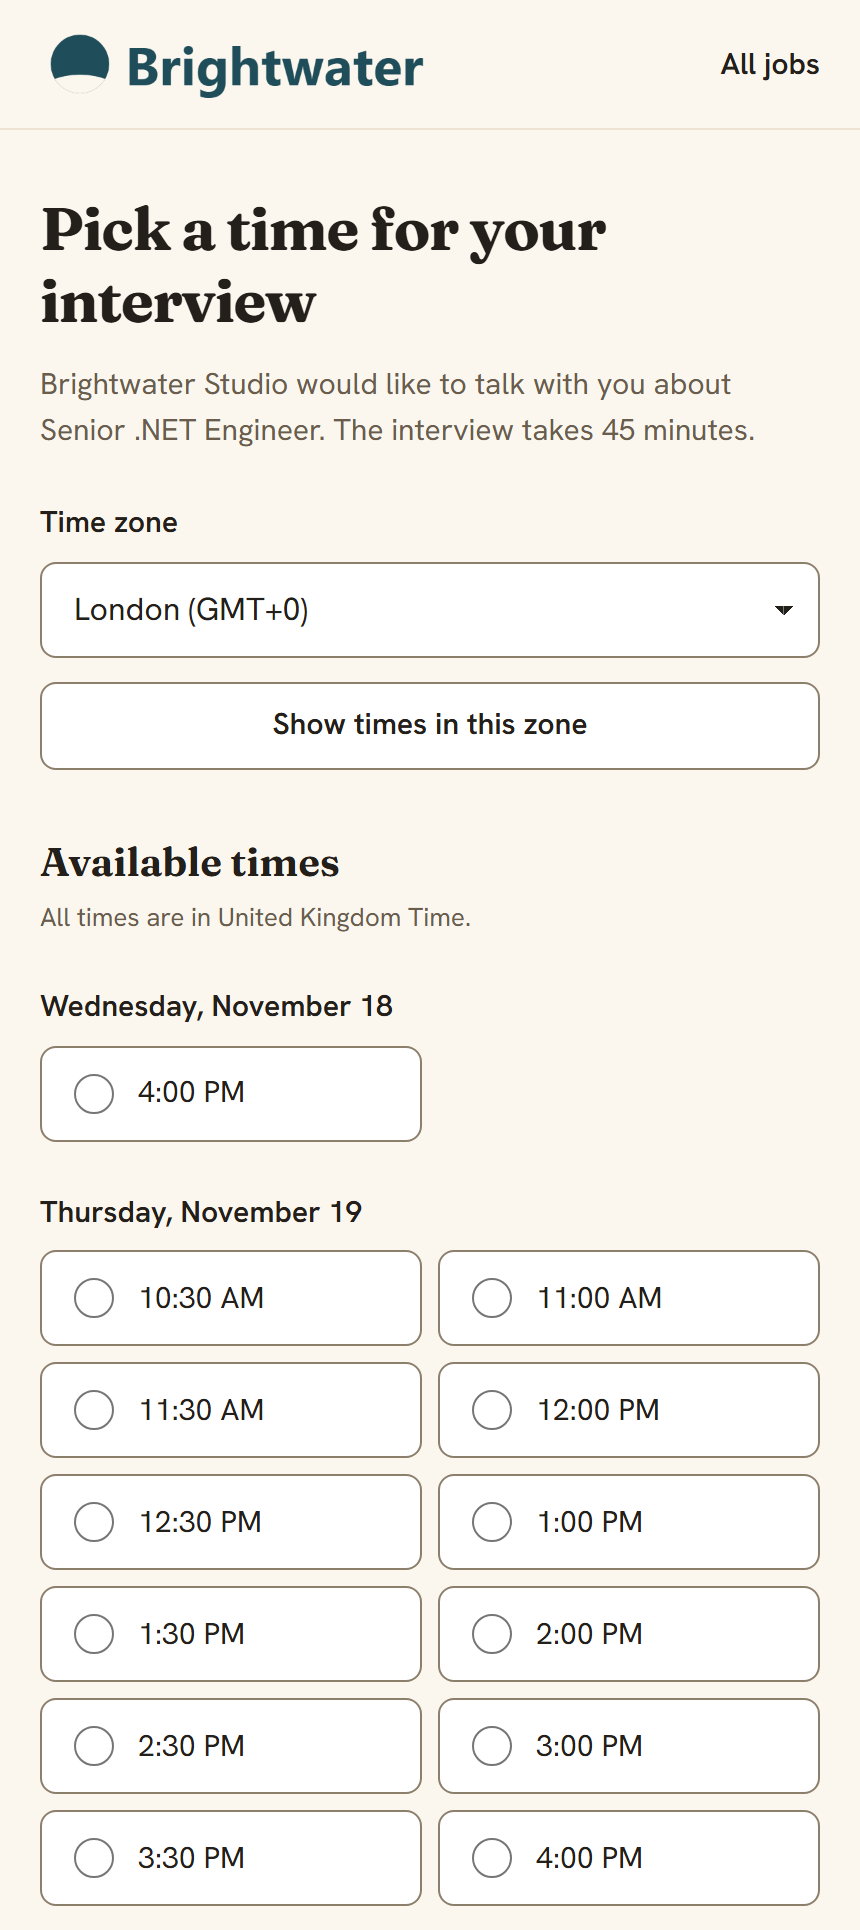
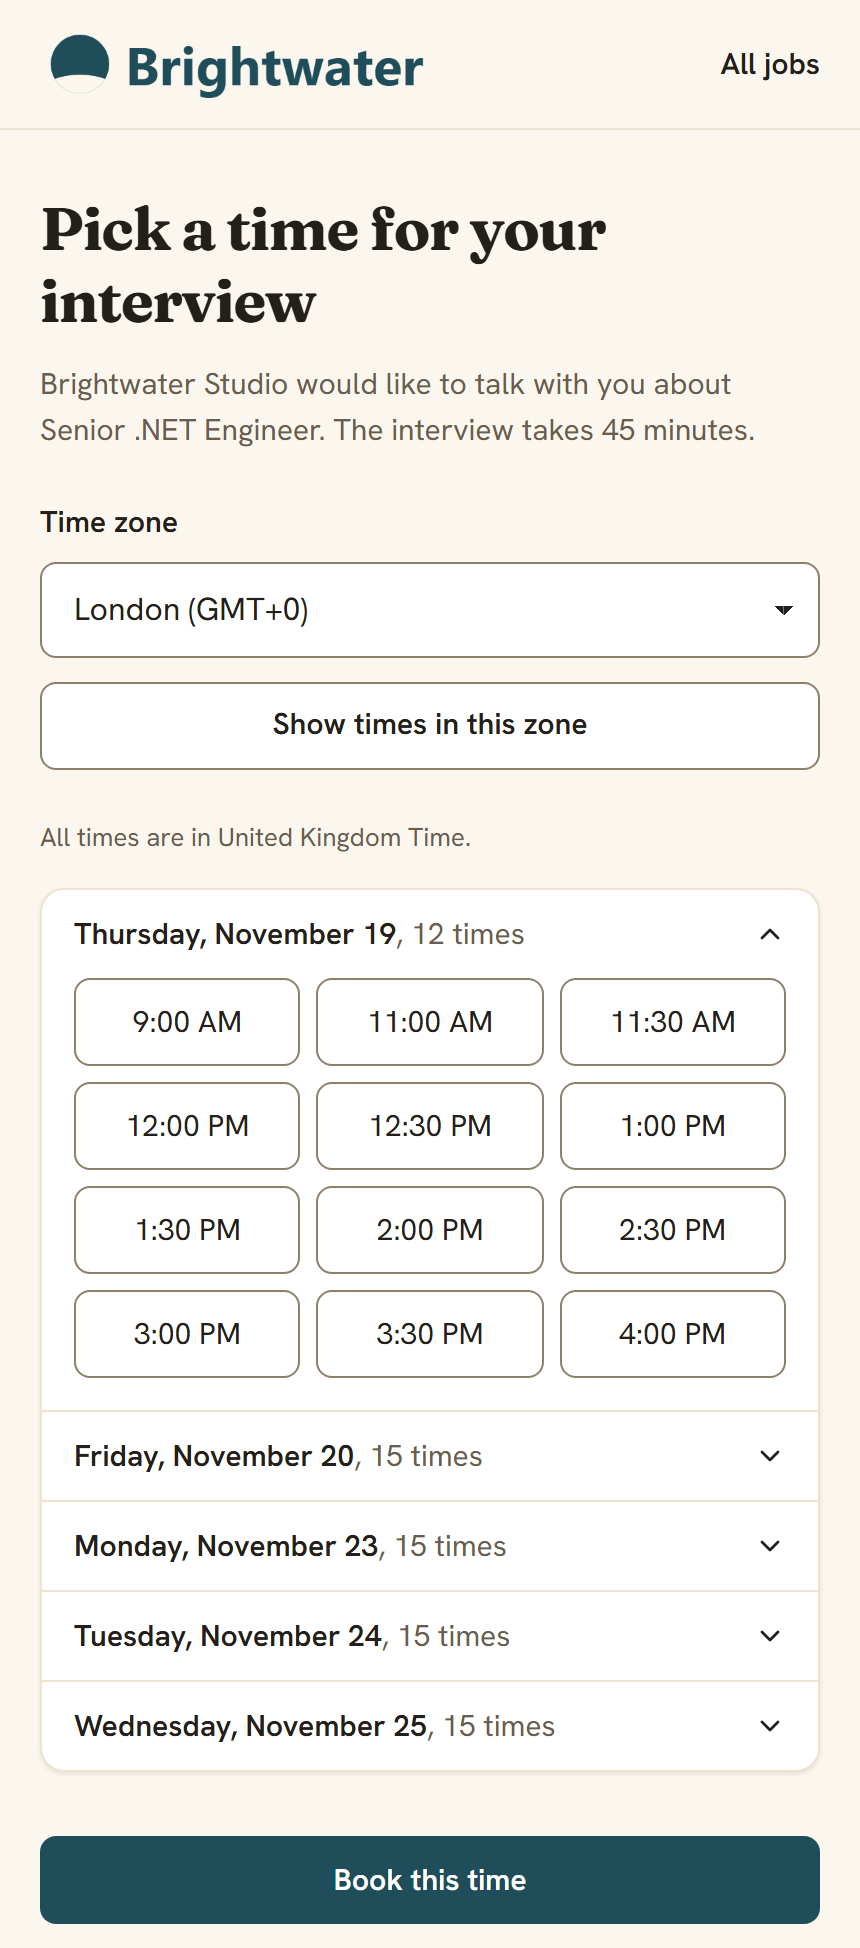
feat(careers): the interview picker shows one day at a time on a phone (#162)
* feat(careers): the interview picker shows one day at a time on a phone

Each day of times is a details element whose summary names the day and counts its
times; only the first day starts open. Times are chips three to a row, still radios
in the one form, so choosing works with JavaScript off. Where CSS anchor positioning
exists, the chosen time is repeated above Book from the checked label. Five days
now make a page under 1400 px tall at 390 px. The interview-booking pictures are
regenerated.

* docs: the interview time chip is 44px, and a closed day hides the chosen-time line

* fix(review): the chosen interview time sits above Book, and Book never fails silently

- The chosen-time line was absolutely positioned inside its chip, which is positioned for the radio that covers it, so
  the Book row was never an acceptable anchor and the line landed on the chip. It is now fixed, which anchors to Book
  and follows the scroll, and spans Book's row.
- The times lose `required`: a radio in a closed day cannot take focus, so the browser refused Book with no message.
  A post with no time already comes back with "Choose a time first."
- The day list card takes the panel edge and shadow-surface (public-style.test.ts failed without it).
- The E2E test checks where the line sits, not only its text, and the no-time step expects the notice.
- Docs: apply-flow, testing and the design system's chip exception follow the page.
[…]

diff --git a/apps/careers/src/styles/global.css b/apps/careers/src/styles/global.css
@@ -49,4 +49,34 @@
     height: 1px;
     overflow: hidden;
   }
+
+  /* A time on the interview page is a chip: the radio covers it, invisible, so the whole chip is the target and the page is
+     three times to a row on a phone. The checked chip shows the choice (background and ring), and focus shows on the chip. */
+  .time-chip:has(:focus-visible) {
+    outline: 2px solid var(--candidate-brand-ui);
+    outline-offset: 2px;
+  }
+
+  /* The time picked, repeated above Book (the interview page). A checked time's label carries it in data-chosen and CSS
+     anchors it to the Book row, so there is no script and no copy of the text in the page. Only where the browser can
+     anchor; elsewhere the checked time itself shows the choice. The empty alternative text keeps it out of the radio's name.
+     The line is fixed, not absolute: an anchor must be laid out before the element it places, and the chip that holds the
+     line is positioned (its radio covers it), so an absolute line would find no anchor and land on the chip. A fixed line's
+     containing block is the viewport, which can anchor to anything, and anchoring follows the page as it scrolls. */
+  @supports (anchor-name: --book) {
+    .times-form .book-row {
+      anchor-name: --book;
+      @apply mt-4;
+    }
+
+    .times-form .choice:has(:checked)::after {
+      content: attr(data-chosen) / "";
+      position: fixed;
+      position-anchor: --book;
+      bottom: anchor(top);
+      left: anchor(left);
+      right: anchor(right);
+      @apply text-candidate-body font-semibold text-candidate-foreground;
+    }
+  }
 }

diff --git a/tests/ScreenHire.E2E/InterviewBookingTests.cs b/tests/ScreenHire.E2E/InterviewBookingTests.cs
@@ -32,9 +32,12 @@ public sealed partial class InterviewBookingTests(E2EFixture fixture) : BrowserT
         await Expect(Page.Locator("#tz")).ToHaveValueAsync("UTC");
         await ExpectNoAccessibilityViolationsAsync();
 
-        // Pressing Book without a time is refused by the browser; nothing is posted.
+        // Pressing Book without a time books nothing and asks for one. The times carry no `required`: a closed day's radio
+        // cannot take the browser's focus, so the browser would refuse the post without a word.
         await Page.GetByRole(AriaRole.Button, new() { Name = "Book this time" }).ClickAsync();
         await Expect(Page.GetByRole(AriaRole.Heading, new() { Level = 1 })).ToHaveTextAsync("Pick a time for your interview");
+        await Expect(Page.Locator("main")).ToContainTextAsync("Choose a time first.");
+        (await scene.Interview(Ct)).GetProperty("status").GetString().Should().Be("Open");
 
         // The zone is a plain GET form: the times come back written in the chosen zone, on the half hour for Kolkata.
         await Page.Locator("#tz").SelectOptionAsync("Asia/Kolkata");
@@ -42,13 +45,13 @@ public sealed partial class InterviewBookingTests(E2EFixture fixture) : BrowserT
         await Expect(Page).ToHaveURLAsync(new Regex("tz=Asia%2FKolkata"));
         await Expect(Page.Locator("#tz")).ToHaveValueAsync("Asia/Kolkata");
         await Expect(Page.GetByText("All times are in India Standard Time.")).ToBeVisibleAsync();
-        var morning = Page.GetByLabel("2:30 PM", new() { Exact = true }).First; // 09:00 UTC, the first hour of the working day
+        var morning = await OpenDayWithAsync("2:30 PM"); // 09:00 UTC, the first hour of the working day
         await Expect(morning).ToBeVisibleAsync();
         var firstDay = await DayOfAsync(morning);
         await ExpectNoAccessibilityViolationsAsync();
         await ShotsAsync(scene.Link + "?tz=Asia%2FKolkata", "interview-open");
 
-        morning = Page.GetByLabel("2:30 PM", new() { Exact = true }).First; // the shots reopened the page in a new browser context
+        morning = await OpenDayWithAsync("2:30 PM"); // the shots reopened the page in a new browser context
         await morning.CheckAsync();
         await Page.GetByRole(AriaRole.Button, new() { Name = "Book this time" }).ClickAsync();
 
@@ -74,8 +77,9 @@ public sealed partial class InterviewBookingTests(E2EFixture fixture) : BrowserT
         Page.Url.Should().Contain("change=1").And.Contain("tz=Asia%2FKolkata");
         await Expect(Page.Locator("main")).ToContainTextAsync("Choose a new time and we will move it.");
         await ExpectNoAccessibilityViolationsAsync();
-        var last = Page.Locator("fieldset").Last;
-        var lastDay = (await last.Locator("legend").InnerTextAsync()).Trim();
+        var last = Page.Locator("details").Last;
+        await last.Locator("summary").ClickAsync(); // only the first day starts open
+        var lastDay = (await last.Locator("legend").TextContentAsync())!.Trim();
         var lastTime = last.GetByRole(AriaRole.Radio).Last;
         var lastRange = (await lastTime.Locator("xpath=ancestor::label[1]").InnerTextAsync()).Trim();
         await lastTime.CheckAsync();
@@ -102,6 +106,56 @@ public sealed partial class InterviewBookingTests(E2EFixture fixture) : BrowserT
 
         // The recruiter sees the cancellation too.
         (await scene.Interview(Ct)).GetProperty("status").GetString().Should().Be("Cancelled");
+    }
+
+    [Fact]
+    public async Task A_candidate_on_a_phone_sees_one_day_of_times_at_a_time_and_books_a_time_on_the_third_day()
+    {
+        using var scene = await SceneAsync();
+        await WithoutJavaScriptAsync();
+        await Page.SetViewportSizeAsync(390, 844);
+        await Page.GotoAsync(scene.Link);
+        await Expect(Page.GetByRole(AriaRole.Heading, new() { Level = 1 })).ToHaveTextAsync("Pick a time for your interview");
+
+        // Five days of times are five lines, and only the first day is open: the page stays short and Book is in reach.
+        var days = Page.Locator("main form details");
+        await Expect(days).ToHaveCountAsync(5);
+        await Expect(days.First).ToHaveAttributeAsync("open", "");
+        await Expect(Page.Locator("main form details[open]")).ToHaveCountAsync(1);
+        await Expect(days.Nth(2).Locator("summary")).ToHaveTextAsync(new Regex(@",\s*\d+ times?$"));
+        (await Page.Locator("script:not([type='application/ld+json'])").CountAsync()).Should().Be(0, "the page ships no JavaScript");
+        await ExpectNoAccessibilityViolationsAsync();
+
+        await WithJavaScriptAsync(); // only to measure: the page has no script of its own
+        await Page.SetViewportSizeAsync(390, 844);
+        await Page.GotoAsync(scene.Link);
+        var height = await Page.EvaluateAsync<double>("() => document.documentElement.scrollHeight");
+        height.Should().BeLessThan(1400, "five days of times fit a phone page about one and a half screens tall");
+
+        // A time on the third day: open it, choose it, and the choice is repeated above Book.
+        var third = Page.Locator("main form details").Nth(2);
+        await third.Locator("summary").ClickAsync();
+        var dayHeading = (await third.Locator("legend").TextContentAsync())!.Trim();
+        await third.GetByRole(AriaRole.Radio).First.CheckAsync();
+        // A pseudo-element has no box to ask for, and its computed insets do not follow the scroll, so the test asks the page
+        // what is drawn just above Book's left edge: a hit on a pseudo-element answers with the element that owns it.
+        var line = await third.Locator("label.choice").First.EvaluateAsync<JsonElement>("""
+            async e => {
+              const book = document.querySelector('.book-row');
+              book.scrollIntoView({ block: 'center' });
+              await new Promise((done) => requestAnimationFrame(() => requestAnimationFrame(done)));
+              const box = book.getBoundingClientRect();
+              return { content: getComputedStyle(e, '::after').content, above: document.elementFromPoint(box.left + 4, box.top - 6) === e };
+            }
+            """);
+        line.GetProperty("content").GetString().Should().Contain($"{dayHeading} at ", "the chosen time is repeated");
+        line.GetProperty("above").GetBoolean().Should().BeTrue("the chosen time sits right above Book");
+        await Page.GetByRole(AriaRole.Button, new() { Name = "Book this time" }).ClickAsync();
+
+        await Expect(Page.GetByRole(AriaRole.Heading, new() { Level = 1 })).ToHaveTextAsync("Your interview is booked");
+        await Expect(Page.GetByRole(AriaRole.Region, new() { Name = "Your time" })).ToContainTextAsync(dayHeading);
+        await ExpectNoAccessibilityViolationsAsync();
+        (await scene.Interview(Ct)).GetProperty("status").GetString().Should().Be("Booked");
     }
 
     [Fact]
@@ -137,7 +191,7 @@ public sealed partial class InterviewBookingTests(E2EFixture fixture) : BrowserT
         await Expect(Page.GetByRole(AriaRole.Heading, new() { Level = 1 })).ToHaveTextAsync("Pick a new time");
         await Expect(Page.GetByRole(AriaRole.Link, new() { Name = "Keep my current time" }).First).ToBeVisibleAsync();
         await ExpectNoAccessibilityViolationsAsync();
-        var firstDay = (await Page.Locator("fieldset legend").First.InnerTextAsync()).Trim();
+        var firstDay = (await Page.Locator("fieldset legend").First.TextContentAsync())!.Trim();
         await Page.GetByRole(AriaRole.Radio).First.CheckAsync();
         await Page.GetByRole(AriaRole.Button, new() { Name = "Move to this time" }).ClickAsync();
 
@@ -213,7 +267,21 @@ public sealed partial class InterviewBookingTests(E2EFixture fixture) : BrowserT
     }
 
     private static async Task<string> DayOfAsync(ILocator radioLabelled) =>
-        (await radioLabelled.Locator("xpath=ancestor::fieldset[1]/legend").InnerTextAsync()).Trim();
+        (await radioLabelled.Locator("xpath=ancestor::fieldset[1]/legend").TextContentAsync())!.Trim();
+
+    // The radio for a time on the first day that offers it, with that day open: only the first day starts open, and a closed
+    // day's times cannot be seen or chosen.
+    private async Task<ILocator> OpenDayWithAsync(string time)
+    {
+        var radio = Page.GetByLabel(time, new() { Exact = true });
+        var day = Page.Locator("details", new() { Has = radio }).First;
+        if (await day.GetAttributeAsync("open") is null)
+        {
+            await day.Locator("summary").ClickAsync();
+        }
+
+        return day.GetByLabel(time, new() { Exact = true });
+    }
 
     private async Task<MailpitMessage> WaitForEmailAsync(string address, string subject)
     {

diff --git a/tests/ScreenHire.E2E/MarketingScreenshotsTests.cs b/tests/ScreenHire.E2E/MarketingScreenshotsTests.cs
@@ -107,6 +107,7 @@ public sealed partial class MarketingScreenshotsTests(MarketingDemoFixture fixtu
 
         // Where the phone pictures stop: between elements, never through the middle of one.
         static ILocator Stage4(IPage page) => page.GetByRole(AriaRole.List, new() { Name = "Stages in order" }).Locator("> li").Nth(3);
+        static ILocator Book(IPage page) => page.GetByRole(AriaRole.Button, new() { Name = "Book this time" });
         static ILocator Entry(IPage page, string text) => page.Locator("main ol[aria-label] > li").Filter(new() { HasText = text });
 
         var screens = new List<Screen>
@@ -141,11 +142,11 @@ public sealed partial class MarketingScreenshotsTests(MarketingDemoFixture fixtu
                 WideTo: page => PanelTitled(page, "Candidate journey"), WideMargin: 4,
                 Phone: new(Height: 1800, Margin: 10, From: page => PanelTitled(page, "Candidate journey"), To: Stage4)),
 
-            // 7. The candidate's interview booking page, before they pick a time. Both pictures end after the second day of times;
-            // the window is tall enough for two whole days when the run starts early and today has times all day.
+            // 7. The candidate's interview booking page, before they pick a time: the first day open, the other days one line each.
+            // Both pictures end at the Book button.
             new("interview-booking", bookingLink, "Pick a time for your interview", _ => Task.CompletedTask, Public: true, Height: 1150,
-                WideTo: page => page.Locator("main fieldset").Nth(1), WideMargin: 12,
-                Phone: new(Height: 2400, Margin: 12, To: page => page.Locator("main fieldset").Nth(1))),
+                WideTo: Book, WideMargin: 12,
+                Phone: new(Height: 1400, Margin: 12, To: Book)),
 
             // 8. Slack, connected, in Settings, whose menu lists each integration beside the other settings.
             new("integrations", DashboardUrl("/settings/slack"), "Slack",

diff --git a/docs/architecture/interview-scheduling.md b/docs/architecture/interview-scheduling.md
@@ -428,7 +428,9 @@ offers instants and the zone; it never sends formatted text. Booking, moving and
 redirect back to the same address with an outcome word (`booked`, `rescheduled`, `cancelled`, `slot-taken`, `too-late`).
 A conflict maps to its notice by the problem's `type`. When the team has offered new times the page says so, keeps the booked time in view and leads with Pick a new time, which
 opens the picker on the new days. The usual notice does not apply while the offer is pending. The page shows one screen of five days that have times and links to the
-next, shows no meeting link of its own (the calendar invitation has it), names no interviewer, and says nothing about
+next. Each day is a `details` element whose summary names the day and counts its times, and only the first day starts open, so five days are five lines on a phone and the page stays under 1400 px tall.
+The times stay radios in the one form, so a closed day still posts. They are not `required`, because the browser cannot focus a radio in a closed day and would refuse Book without a word; a post with no time comes back with "Choose a time first." Where the browser supports CSS anchor positioning, the chosen time ("Tuesday, November 18 at 10:30 AM") is repeated above Book from the checked label's `data-chosen`; elsewhere the checked time shows the choice, and a day closed again after a choice hides the line with it. The page
+shows no meeting link of its own (the calendar invitation has it), names no interviewer, and says nothing about
 verification. Cancelling asks first: a `details` element opens a line that says what happens and a Yes, cancel it button. The browser test (`InterviewBookingTests`) runs the whole journey with JavaScript off, axe clean, and checks
 the page at 390 and 1280 pixels wide for sideways scrolling and touch targets.
 

diff --git a/docs/design/design-system.md b/docs/design/design-system.md
@@ -590,7 +590,7 @@ The careers and marketing pages follow W1, W2, W3, W7 and A10 as well, with thes
   class but those three and `rounded-none`; a step marker on a candidate's own page is square, with no radius class). A card that is not a `Panel` still takes `rounded-panel` and `shadow-surface`. Margins, padding and gaps sit on the 4px grid
   (4, 8, 12, 16, 20, 24, 32, 40, 48, which is `1`, `2`, `3`, `4`, `5`, `6`, `8`, `10` and `12`): no half steps, no `7`,
   `9` or `11`. A button is 44px high (`min-h-11` on careers pages, `h-11` on marketing pages), and a careers input or
-  choice is 48px (`min-h-12`).
+  choice is 48px (`min-h-12`). A time on the interview page is the one exception: a chip 44px high (`min-h-11`), because its radio is hidden under it and the whole chip is the target.
 - A section is a panel (S3, section 6): the card colour, a 1px edge, `rounded-panel` and `shadow-surface`, with its
   title inside a 56px header. Careers pages draw one with `Panel.astro` (`title` and `id`, or only a screen-reader
   `label`, an `action` slot for a Change button, a `footer` slot) in the neutral candidate tokens, so employer colours

diff --git a/docs/architecture/apply-flow.md b/docs/architecture/apply-flow.md
@@ -345,7 +345,7 @@ whole life. The page asks the API for the interview (`GET .../interviews/{token}
 - **Open.** The heading names the job and the length, then a time zone `<select>` in a plain GET form (the interview's own
   zone first, then a short list of common ones and the zone being shown; "Show times in this zone" reloads with `?tz=`),
   then the offered times. The careers server writes every time with `Intl.DateTimeFormat` in that zone, so no script is
-  needed: a fieldset per local day, a radio per start time ("10:00 AM"), and "Book this time", posted to the
+  needed: a `details` per local day (the first open) holding a fieldset, a radio per start time ("10:00 AM"), and "Book this time", posted to the
   `interviewBook` action. One screen shows at most five days that have times; "Show later times" and "Back to the first
   times" are plain links (`?from=` a local day), so a 90-day window never becomes a thousand radios. No times, or a
   calendar that cannot be read, gets a calm notice that says to try again later or reply to the email.

diff --git a/docs/process/testing.md b/docs/process/testing.md
@@ -351,7 +351,7 @@ picture (`name.png`) and a picture of the same screen laid out at phone width (`
   with automations the test adds, because the engineer job's queues an answer for rejection review.
 - **Pictures end between elements.** Where the window as it opens would cut a screen, its picture runs from one element
   to another in a tall window: the pipeline's phone picture shows one stage and its cards, the activity runs from the reply to the first note, the
-  candidates list ends after the last row the window shows whole, the booking page after its second day of times, and the
+  candidates list ends after the last row the window shows whole, the booking page at its Book button, and the
   reports phone picture leaves out the table of open jobs between the cards and the trend.
 - **Data:** Brightwater Studio and its fictional people. The test adds what the demo lacks for one candidate (an email
   answered, an interview offered and booked) and moves three applicants so the pipeline has people in several stages.
